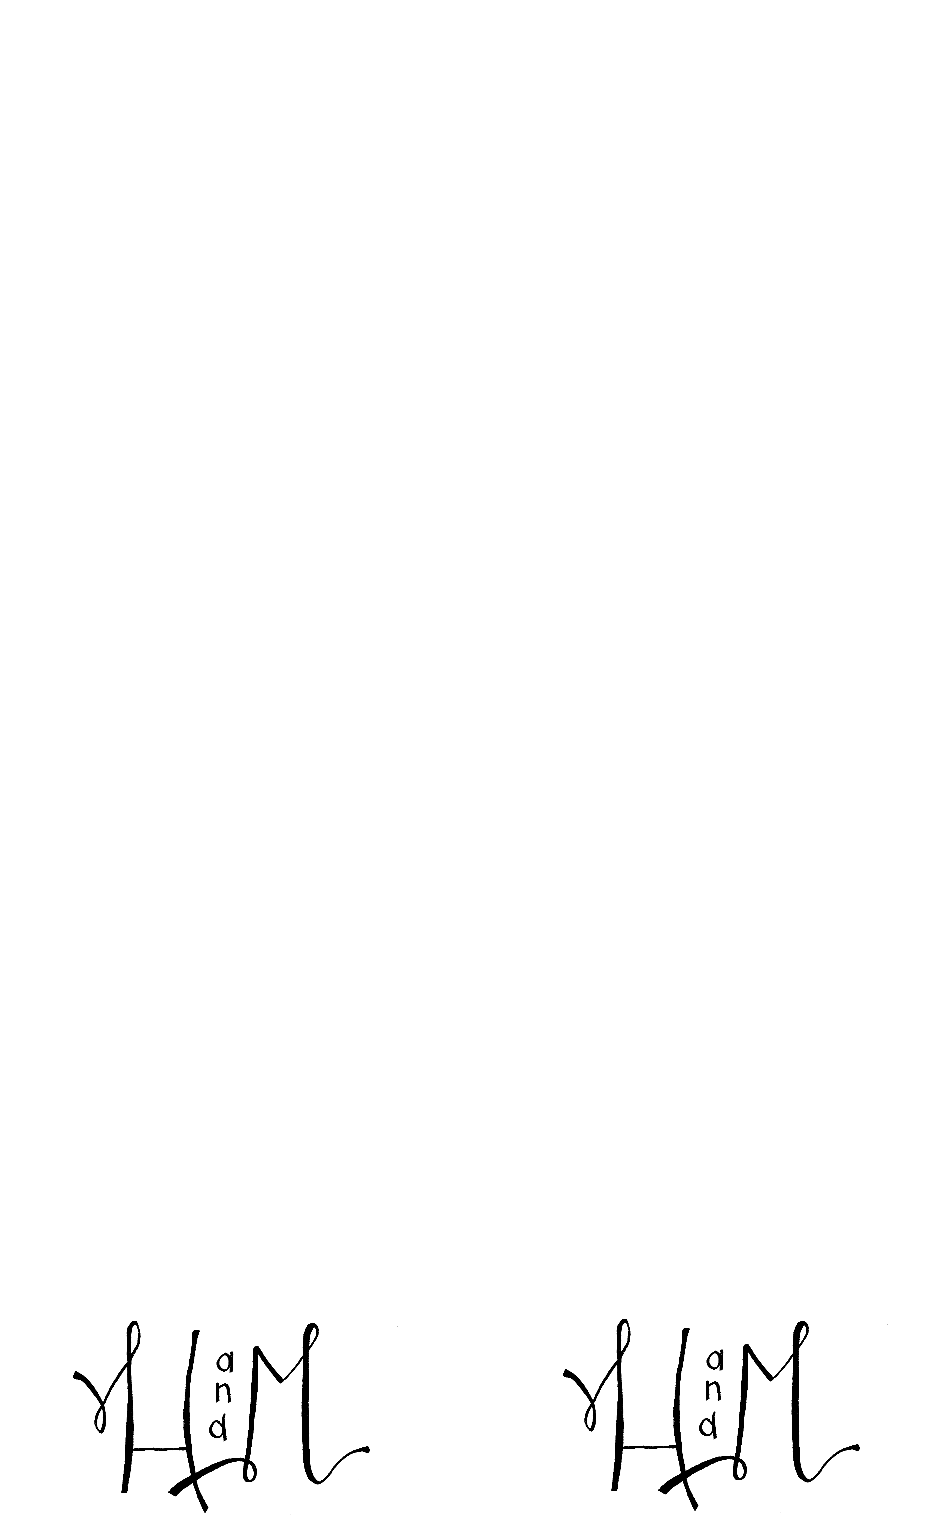
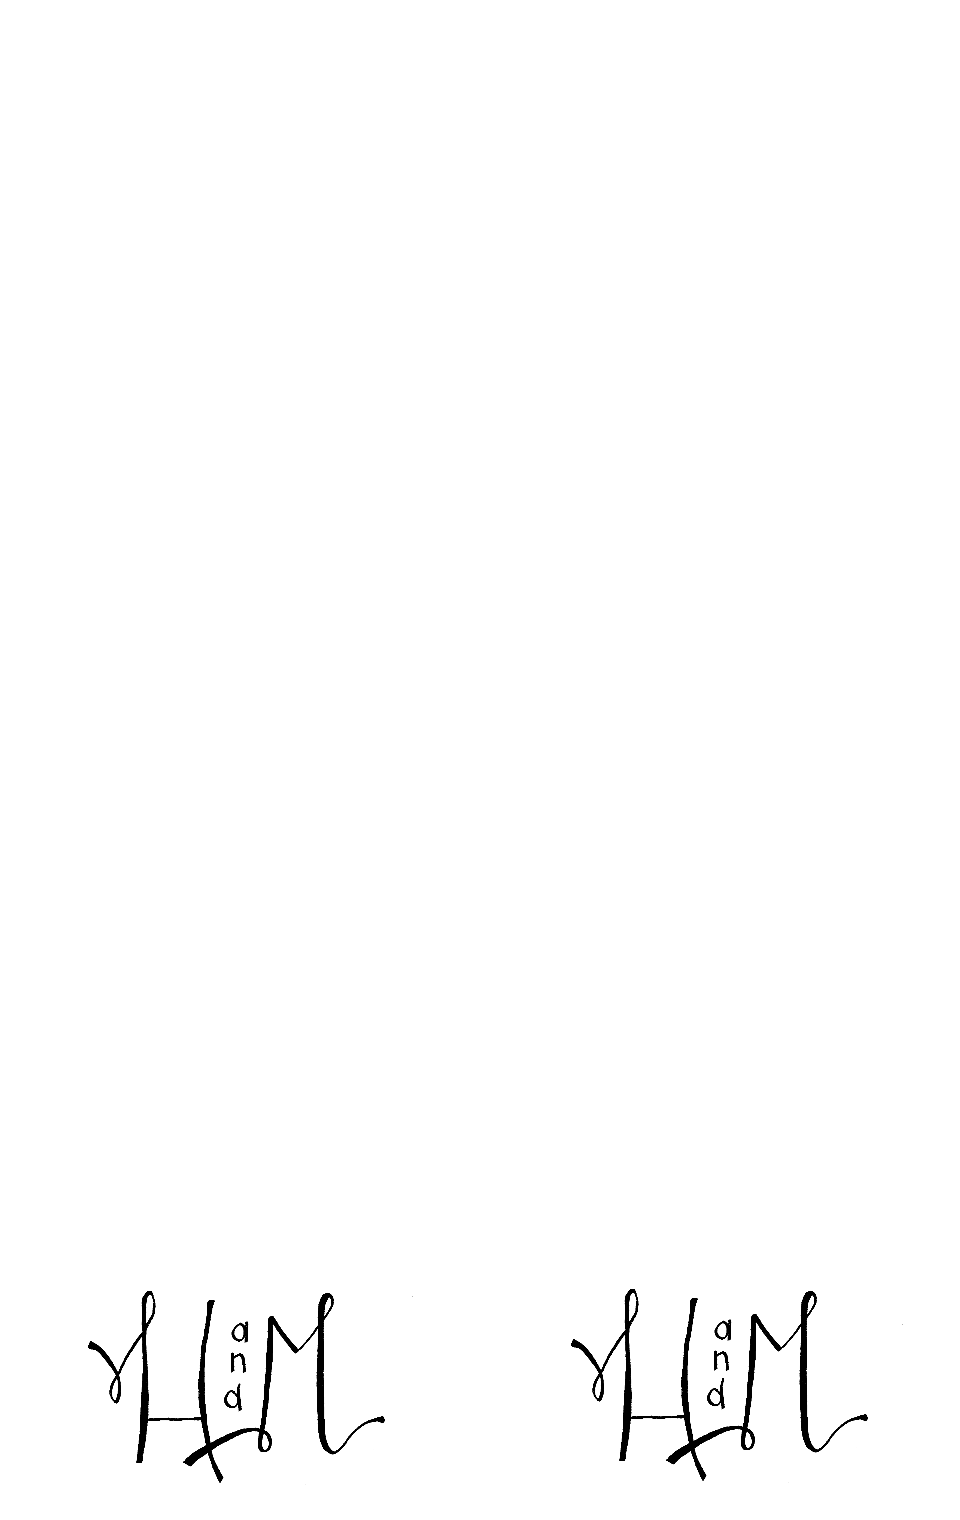
update print background

Changed region(s): [[0.5925, 0.8349, 0.9043, 0.9895], [0.0935, 0.8349, 0.343, 0.9895], [0.3742, 0.9276, 0.4054, 0.9586]]

diff --git a/photo.py b/photo.py
@@ -35,7 +35,7 @@ class Photobooth(Tkinter.Label):
     SCREEN_HEIGHT = 1050
     CAMERA_WIDTH = 1200
     CAMERA_HEIGHT = 800
-    PRINT_WIDTH = 930
+    PRINT_WIDTH = 960
     PRINT_HEIGHT = 1520
     THUMBNAIL_WIDTH = 430
     THUMBNAIL_HEIGHT = 288
@@ -144,8 +144,8 @@ class Photobooth(Tkinter.Label):
             exit(1)
         
         #Lay out the photos on the final image
-        column1 = self.THUMBNAIL_PADDING
-        column2 = self.PRINT_WIDTH - self.THUMBNAIL_PADDING - self.THUMBNAIL_WIDTH
+        column1 = 0  # CUPS on the raspberry pi doesn't seem to print to the edge self.THUMBNAIL_PADDING
+        column2 = self.PRINT_WIDTH - self.THUMBNAIL_WIDTH # - self.THUMBNAIL_PADDING
         row = self.THUMBNAIL_PADDING + self.PRINT_TOP_PADDING
         for photo in images:
             final.paste(photo, (column1,row))
